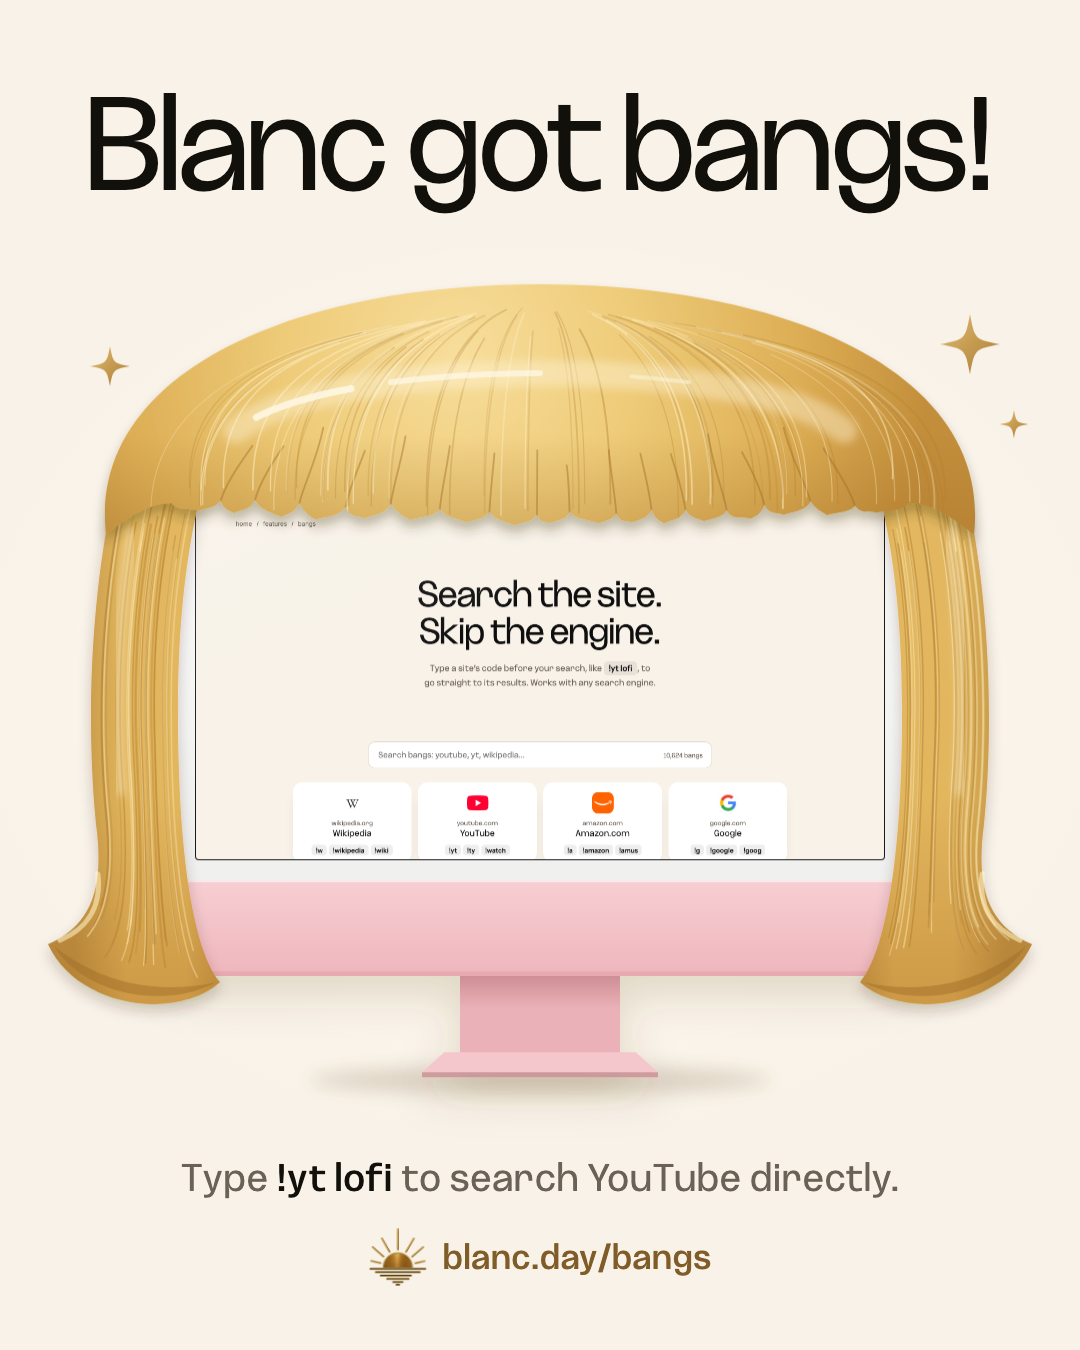
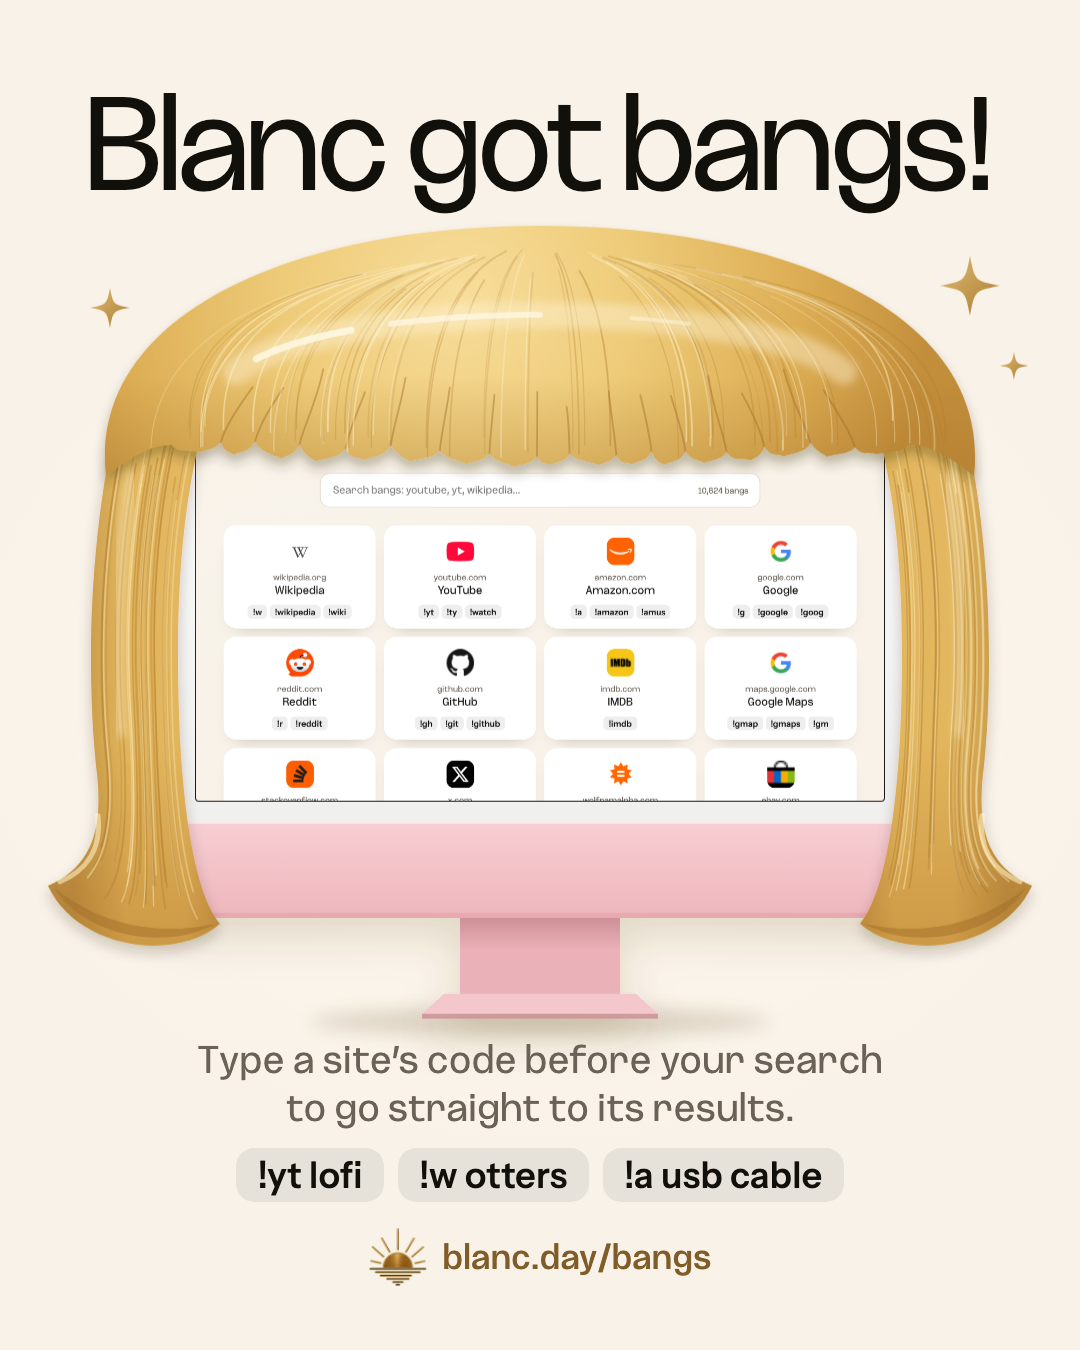
Explain bangs on the graphic and show more of the page's cards
People who don't know bangs need the pattern, not one example: the caption
now says to type a site's code before a search, with three bang chips in the
site's chip style. The screen crops the live page from its search box down,
so a dozen bang cards show larger.

Changed region(s): [[0.0306, 0.1556, 0.9778, 0.9022]]

diff --git a/marketing/social/blanc-got-bangs-2026-10-17/graphic.html b/marketing/social/blanc-got-bangs-2026-10-17/graphic.html
@@ -5,8 +5,9 @@
 <title>Blanc got bangs</title>
 <!--
   "Blanc got bangs!" — 1080x1350 feed graphic for Bangs (shipped in v1.36.0).
-  The screen shows a real capture of https://blanc.day/bangs (bangs-page-capture-1280x720@2x.png,
-  taken 2026-10-17). The Sunrise mark is the shipped site asset, embedded verbatim. The iMac and
+  The screen shows a real capture of https://blanc.day/bangs (bangs-page-capture.png, taken
+  2026-10-17): the page's 1280px-wide layout, cropped to a 1000x563 window from just above the
+  search box, so the bang cards read larger. The Sunrise mark is the shipped site asset, embedded verbatim. The iMac and
   wig are drawn here; the wig's strands are generated with a fixed seed so every render matches.
   Render: node render.mjs   (needs the licensed Blubird fonts installed under site/public/fonts/blubird)
   Colorway: graphic.html?c=pink | blue | silver
@@ -15,6 +16,7 @@
   @font-face { font-family: 'Blubird Display'; src: url('../../../site/public/fonts/blubird/Blubird-RegularDisplay.woff2') format('woff2'); font-weight: 400; }
   @font-face { font-family: 'Blubird Text'; src: url('../../../site/public/fonts/blubird/Blubird-RegularText.woff2') format('woff2'); font-weight: 400; }
   @font-face { font-family: 'Blubird Text'; src: url('../../../site/public/fonts/blubird/Blubird-MediumText.woff2') format('woff2'); font-weight: 500; }
+  @font-face { font-family: 'Instrument Sans'; src: url('../../../site/public/fonts/instrument-sans/instrument-sans-latin-wdth-normal.woff2') format('woff2'); font-weight: 400 700; font-stretch: 75% 100%; }
 
   :root {
     --bg: #F8F2E8;
@@ -69,7 +71,15 @@
   .art svg { display: block; width: 100%; height: 100%; overflow: visible; }
   footer { position: relative; display: flex; flex-direction: column; align-items: center; gap: 26px; }
   .sub { font: 400 38px/1.25 'Blubird Text', sans-serif; color: var(--muted); }
-  .sub b { font-weight: 500; color: var(--ink); }
+  /* The site's .bang-chip (site.css), the app's bang chip */
+  .bang-chip {
+    display: inline-block; padding: 0.21em 0.58em; border-radius: 0.5em;
+    background: color-mix(in srgb, var(--ink) 7%, transparent); color: var(--ink);
+    font-family: 'Instrument Sans', sans-serif; font-size: 0.96em; line-height: 1.05;
+    font-variation-settings: "wdth" 98; font-weight: 550; letter-spacing: 0.01em; white-space: nowrap;
+  }
+  .sub { text-align: center; }
+  .chips { display: flex; justify-content: center; gap: 14px; margin-top: 16px; font: 400 38px/1.25 'Blubird Text', sans-serif; }
   .sign { display: flex; align-items: center; gap: 16px; font: 500 34px/1 'Blubird Text', sans-serif; color: var(--gold); }
   .sign img { width: 58px; height: 58px; display: block; }
 </style>
@@ -163,7 +173,7 @@
   <rect x="135" y="646" width="730" height="2" fill="#fff" opacity="0.55"/>
   <rect x="136" y="216" width="728" height="430" rx="14" fill="url(#bezel)"/>
   <rect x="155" y="237" width="690" height="389" rx="4" fill="#1A1A1A"/>
-  <image href="bangs-page-capture-1280x720@2x.png" x="156" y="238" width="688" height="387"
+  <image href="bangs-page-capture.png" x="156" y="238" width="688" height="387"
          preserveAspectRatio="xMidYMid slice" clip-path="url(#screenClip)"/>
   <rect x="136" y="216" width="728" height="430" rx="14" fill="url(#glare)" clip-path="url(#glassClip)"/>
 
@@ -185,7 +195,10 @@
 </div>
 
 <footer>
-  <p class="sub">Type <b>!yt lofi</b> to search YouTube directly.</p>
+  <div class="sub">
+    <p>Type a site’s code before your search<br>to go straight to its results.</p>
+    <p class="chips"><kbd class="bang-chip">!yt lofi</kbd><kbd class="bang-chip">!w otters</kbd><kbd class="bang-chip">!a usb cable</kbd></p>
+  </div>
   <div class="sign"><img src="../../../site/public/sunrise-hero-mark.png" alt="">blanc.day/bangs</div>
 </footer>
 

diff --git a/marketing/social/blanc-got-bangs-2026-10-17/README.md b/marketing/social/blanc-got-bangs-2026-10-17/README.md
@@ -6,10 +6,12 @@ blue and silver on October 17, 2026. No caption or channel is approved yet, and
 nothing is scheduled.
 
 - `blanc-got-bangs-1080x1350.png` is the graphic.
-- `bangs-page-capture-1280x720@2x.png` is the real https://blanc.day/bangs,
-  captured at 1280×720 on October 17, 2026, after the page's redesign (#915,
-  #919) went live. The screen shows this capture unedited; only the bangs and
-  side hair overlap its edges. It includes the site icons the page itself shows
+- `bangs-page-capture.png` is the real https://blanc.day/bangs, captured on
+  October 17, 2026, after the page's redesign (#915, #919) went live. It keeps
+  the page's 1280px-wide layout and crops a 1000×563 window starting just
+  above the search box, so the screen shows the bang cards larger and the
+  page's headline sits out of frame; nothing in it is edited. Only the bangs and side
+  hair overlap its edges. It includes the site icons the page itself shows
   for Wikipedia, YouTube, Amazon and Google.
 - `graphic.html` draws the iMac, wig and sparkles in SVG. The wig's strands come
   from a fixed seed, so every render matches. `render.mjs` writes the PNG
@@ -18,8 +20,13 @@ nothing is scheduled.
   It needs the licensed Blubird fonts installed (`npm run site:fonts`) and
   stops if they are missing.
 
-Claims: the only product claim is "Type !yt lofi to search YouTube directly.",
-within the Bangs entry of `docs/marketing-claims.md` (shipped in v1.36.0).
+Claims: the caption, "Type a site's code before your search to go straight
+to its results.", follows the page's own hero line, and its three chips
+(`!yt lofi`, `!w otters`, `!a usb cable`) are YouTube, Wikipedia and Amazon
+bangs in v1.36.0's list. Both sit within the Bangs entry of
+`docs/marketing-claims.md`. The owner chose this explainer over a single
+YouTube line ("Type !yt lofi to search YouTube directly.") so that people who
+don't know bangs see the pattern.
 
 Brand: the headline is Blubird Display and the copy Blubird Text. The Sunrise mark is the
 shipped `site/public/sunrise-hero-mark.png`, embedded unchanged, and has no
